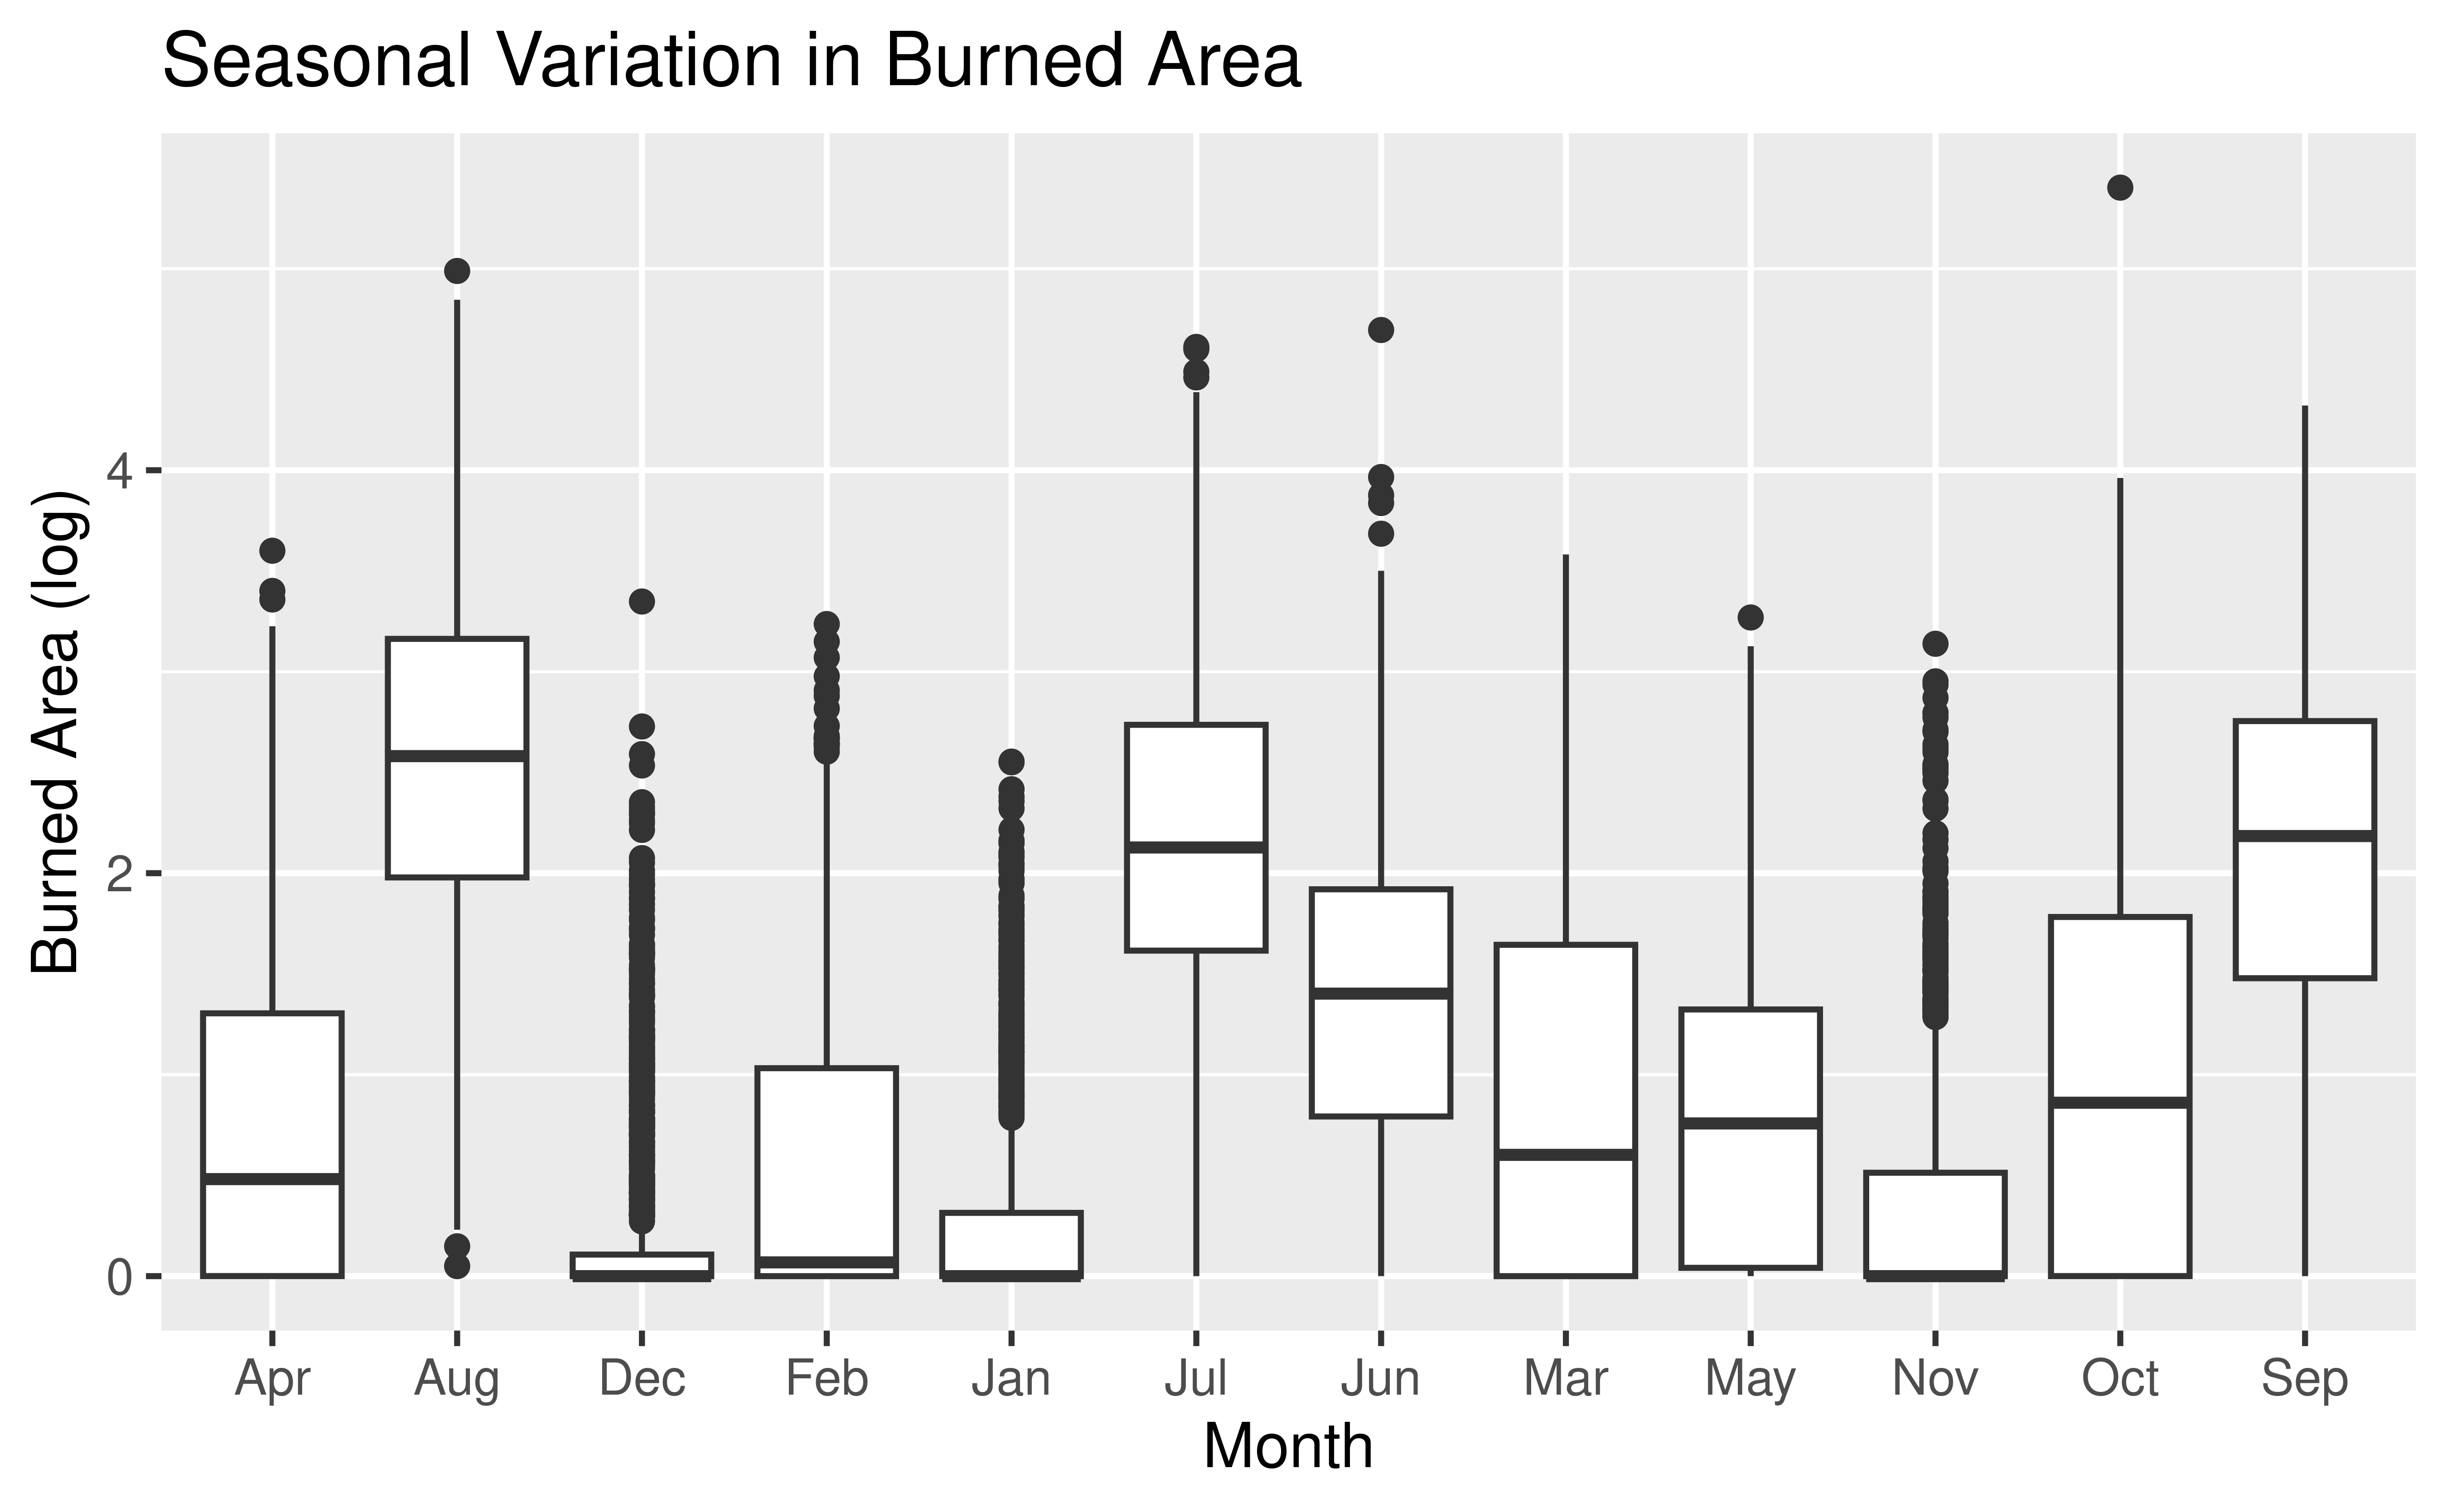
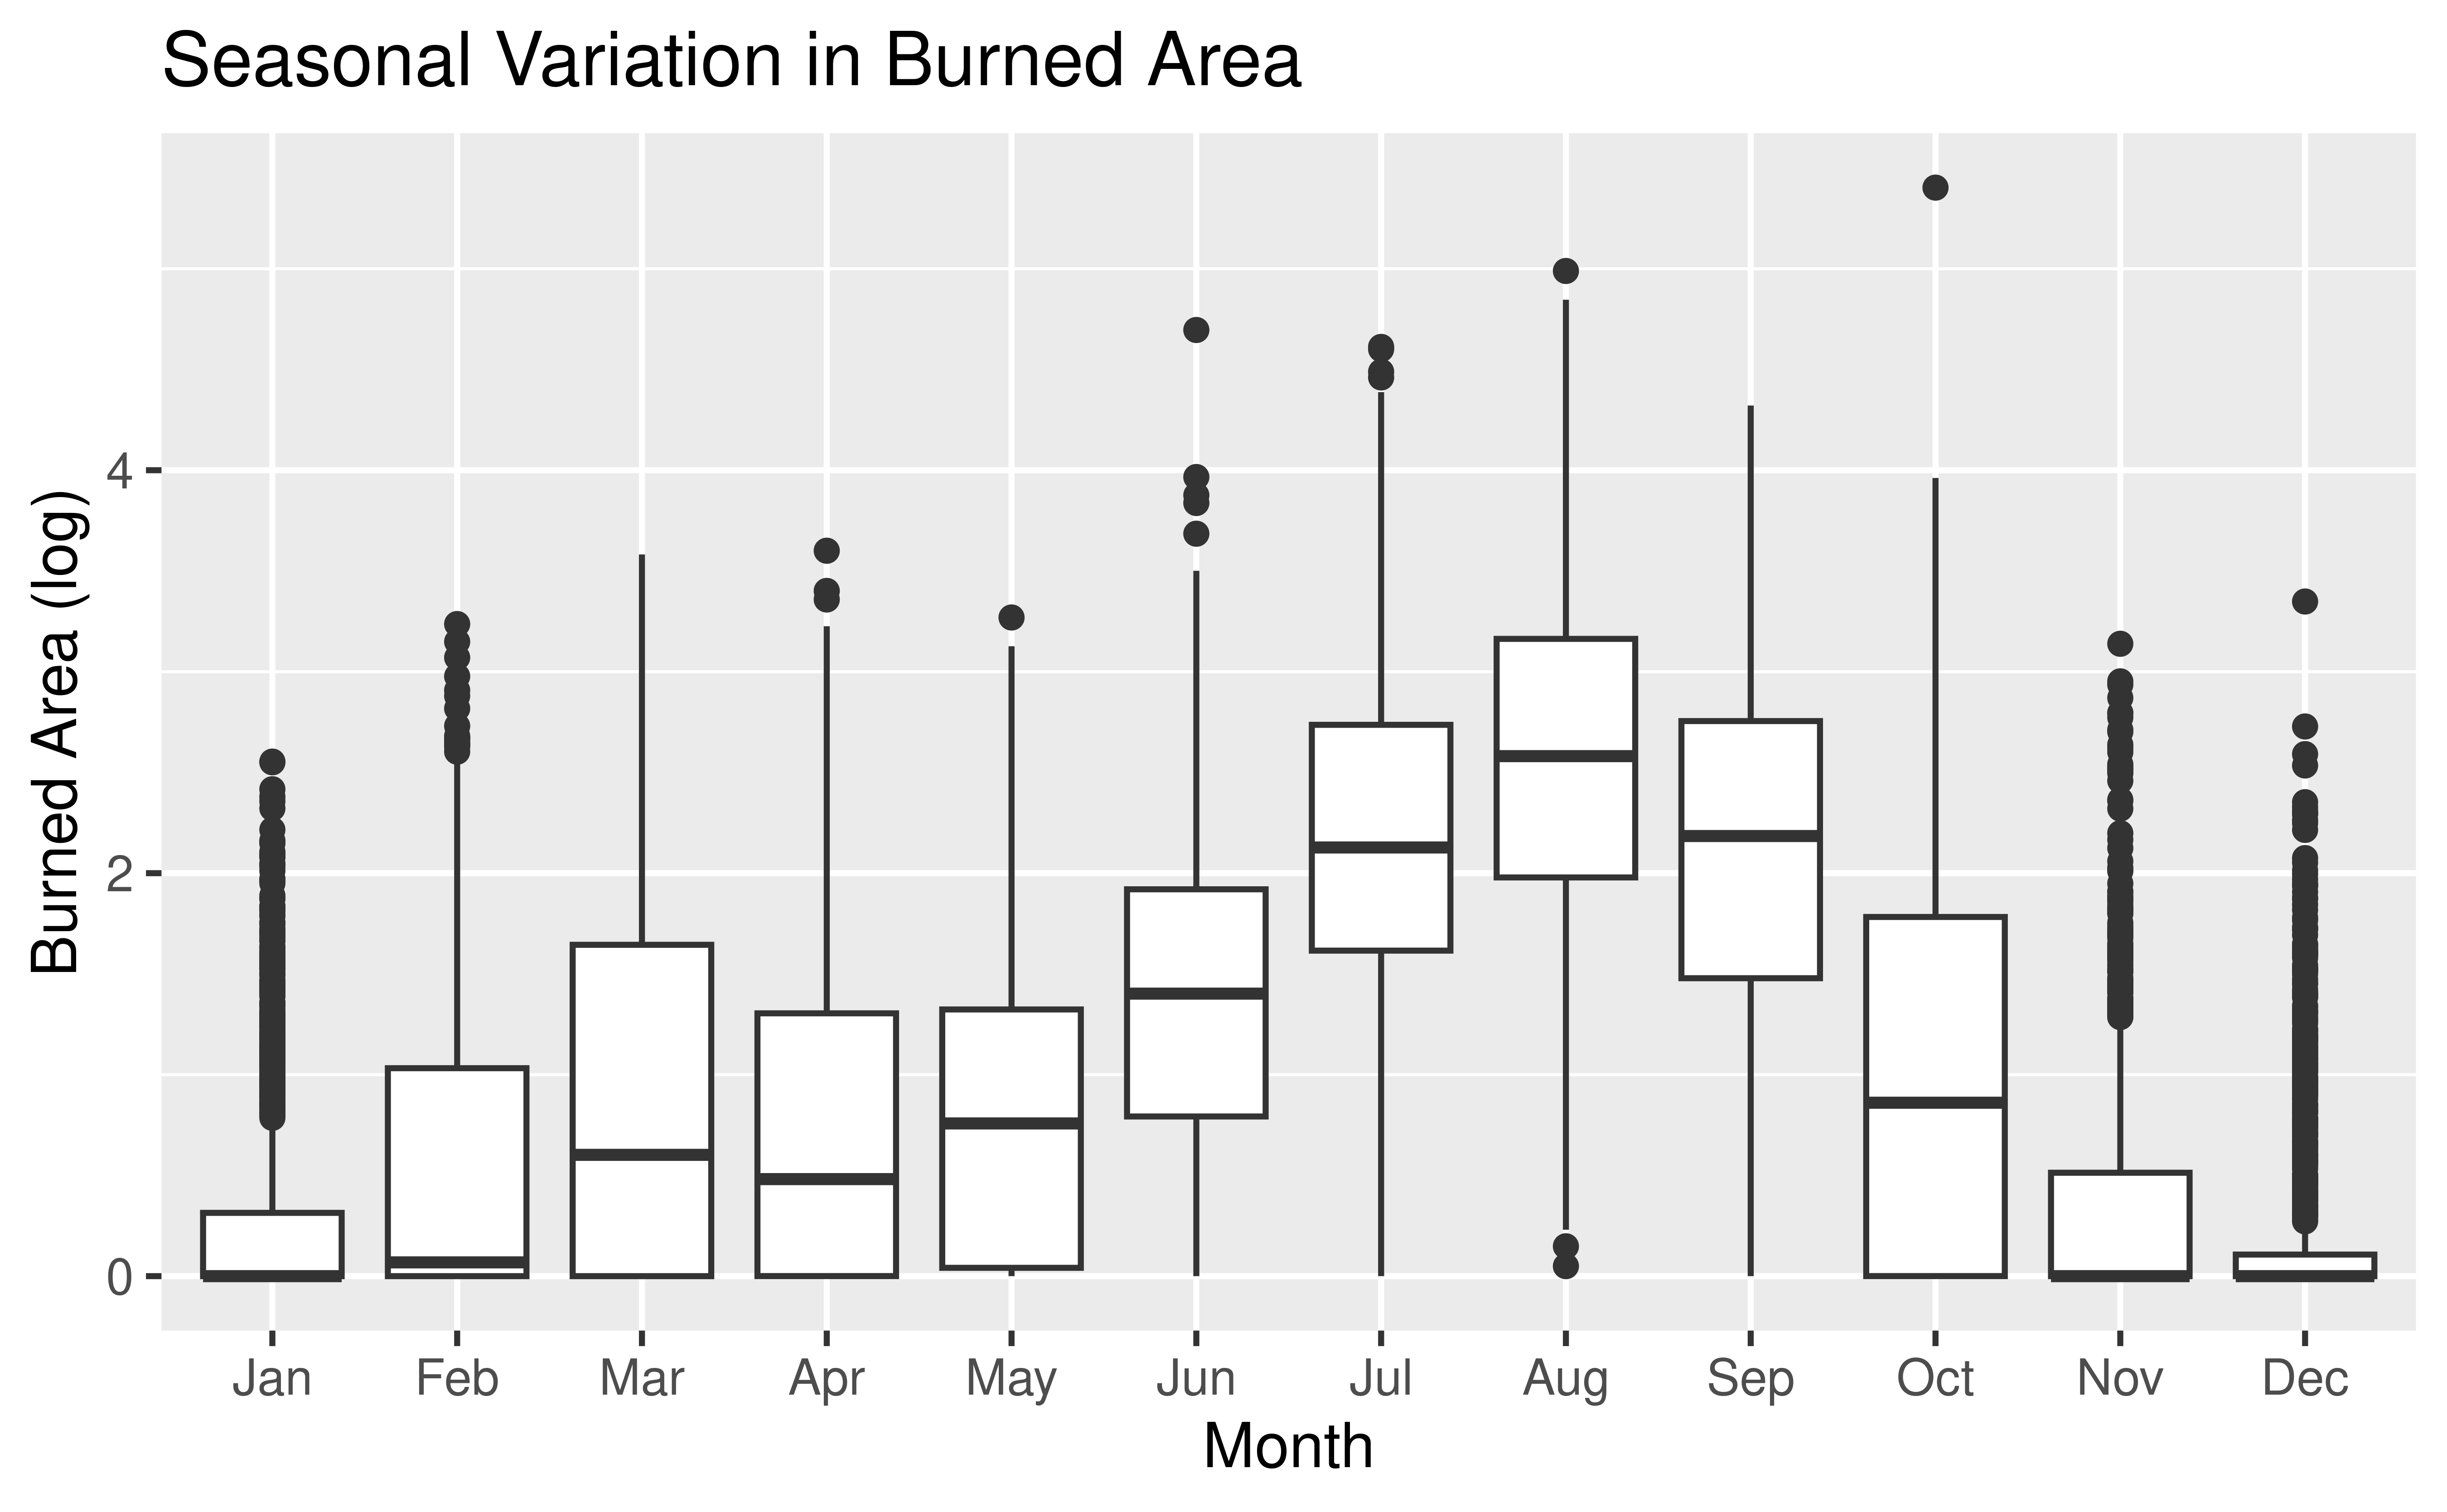
updates to presentation

diff --git a/project-starter/presentation/presentation.html b/project-starter/presentation/presentation.html
@@ -41,6 +41,8 @@ class: center, middle, inverse, title-slide
 
 
 
+
+
 class: center, middle
 
 # Overall Goal/ Research Question
@@ -162,6 +164,8 @@ class: center, middle
 
 class: center, middle
 
+## Do high-risk days actually burn more area?
+
 
 
 &lt;img src="presentation_files/figure-html/fwi-high-low-plot-1.png" alt="" width="80%" /&gt;
@@ -169,6 +173,8 @@ class: center, middle
 ---
 
 class: center, middle
+
+## Does more available fuel equal larger fires?
 
 
 